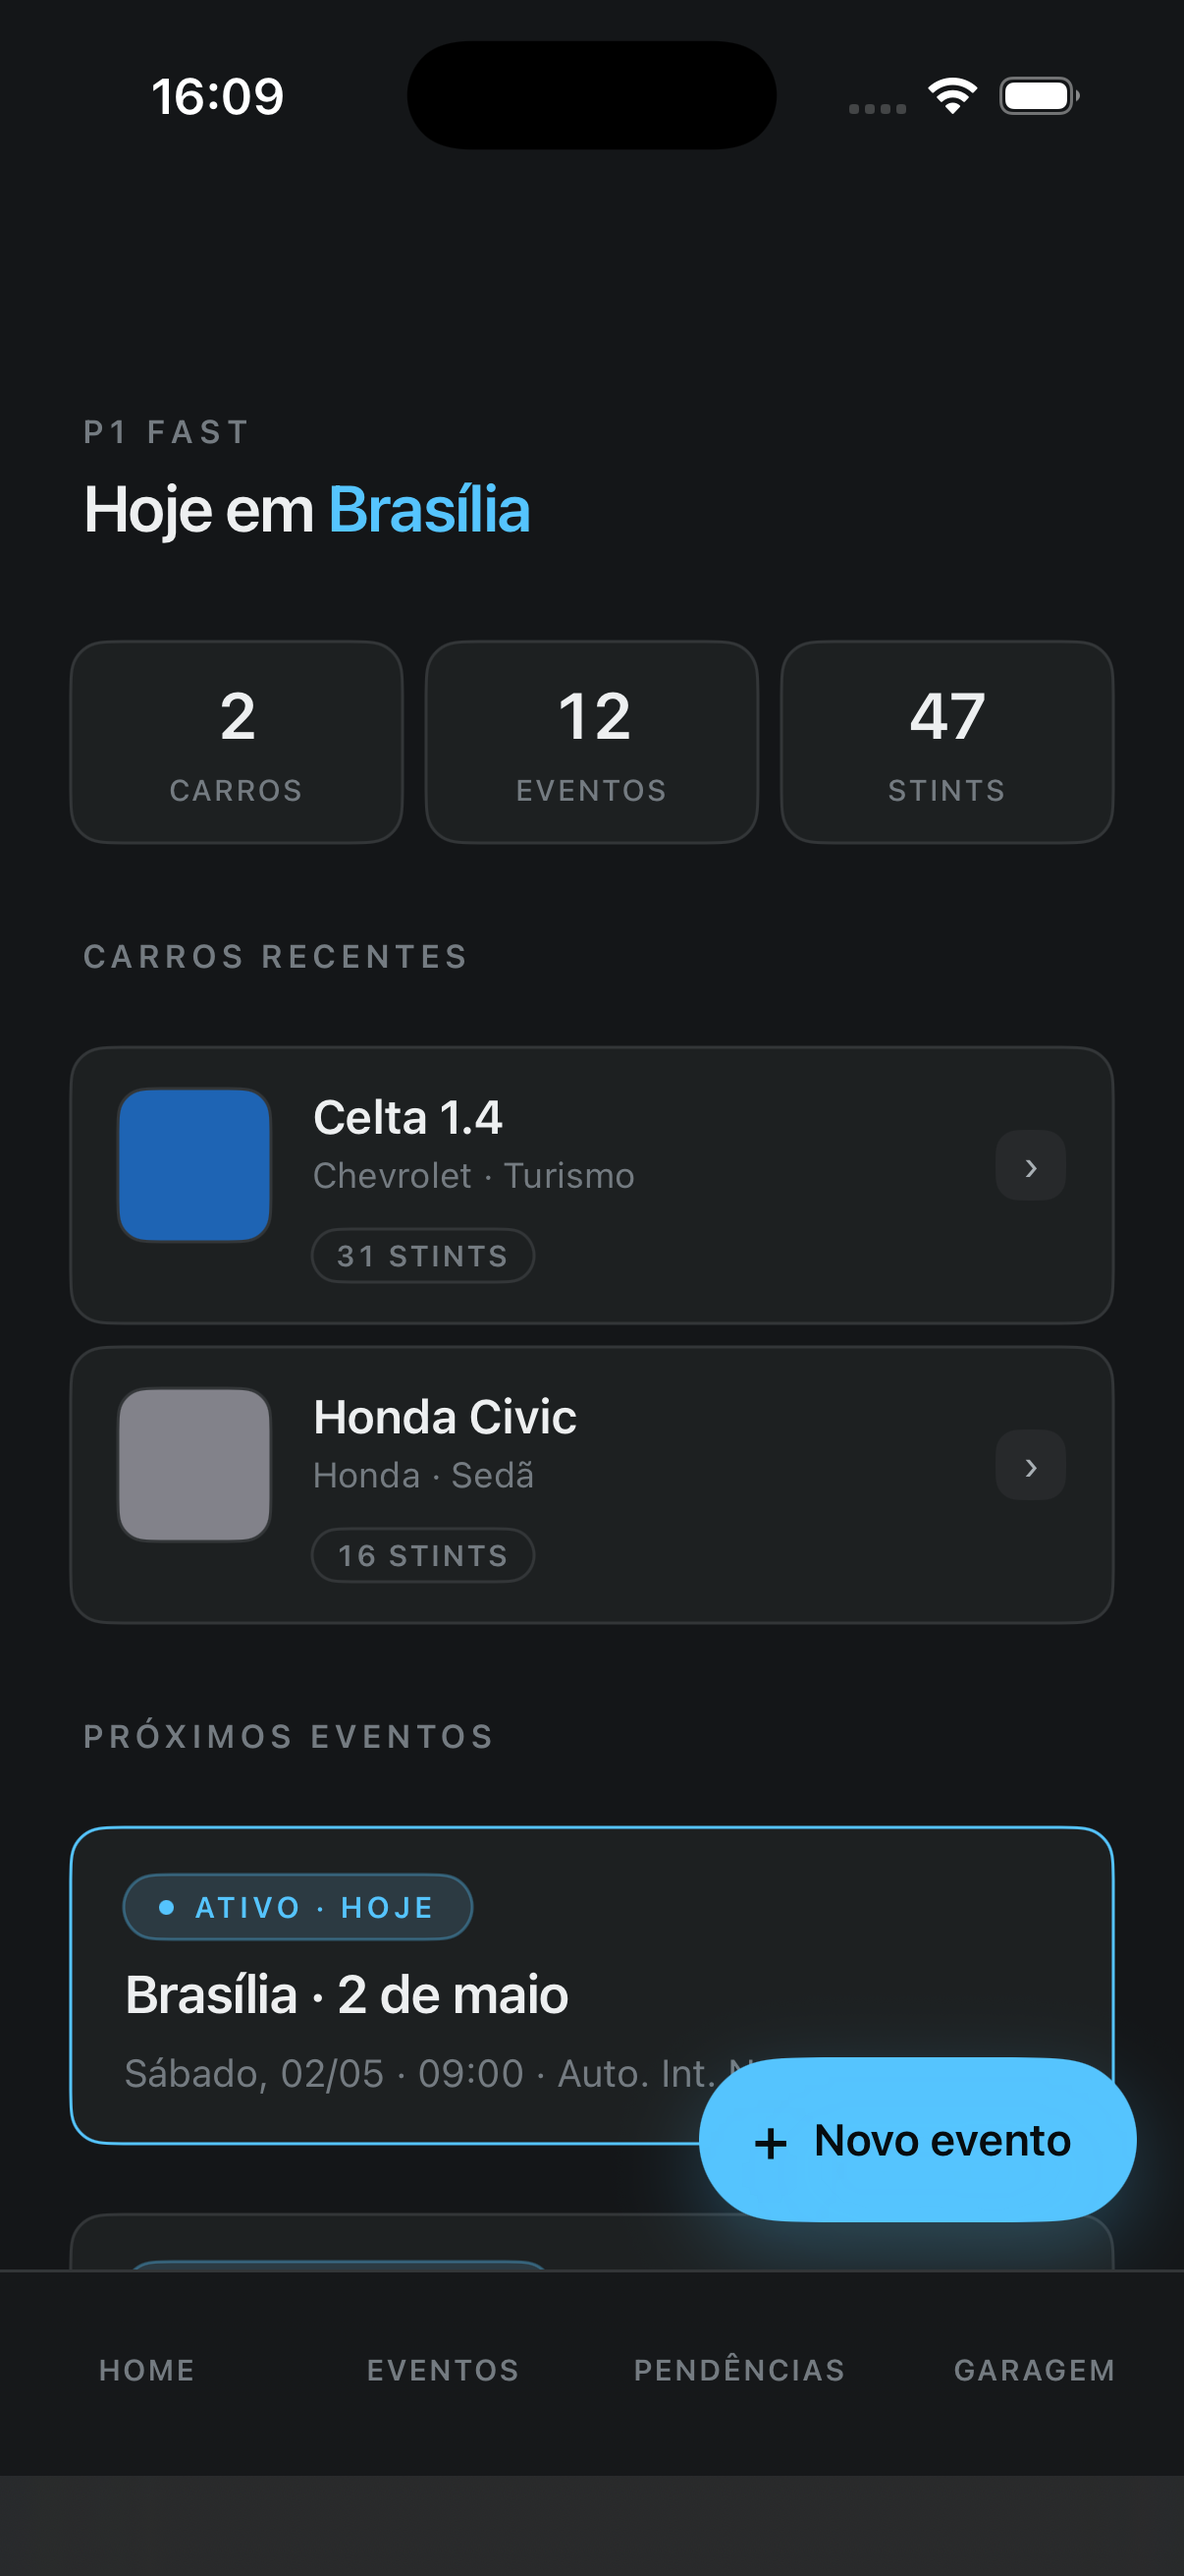
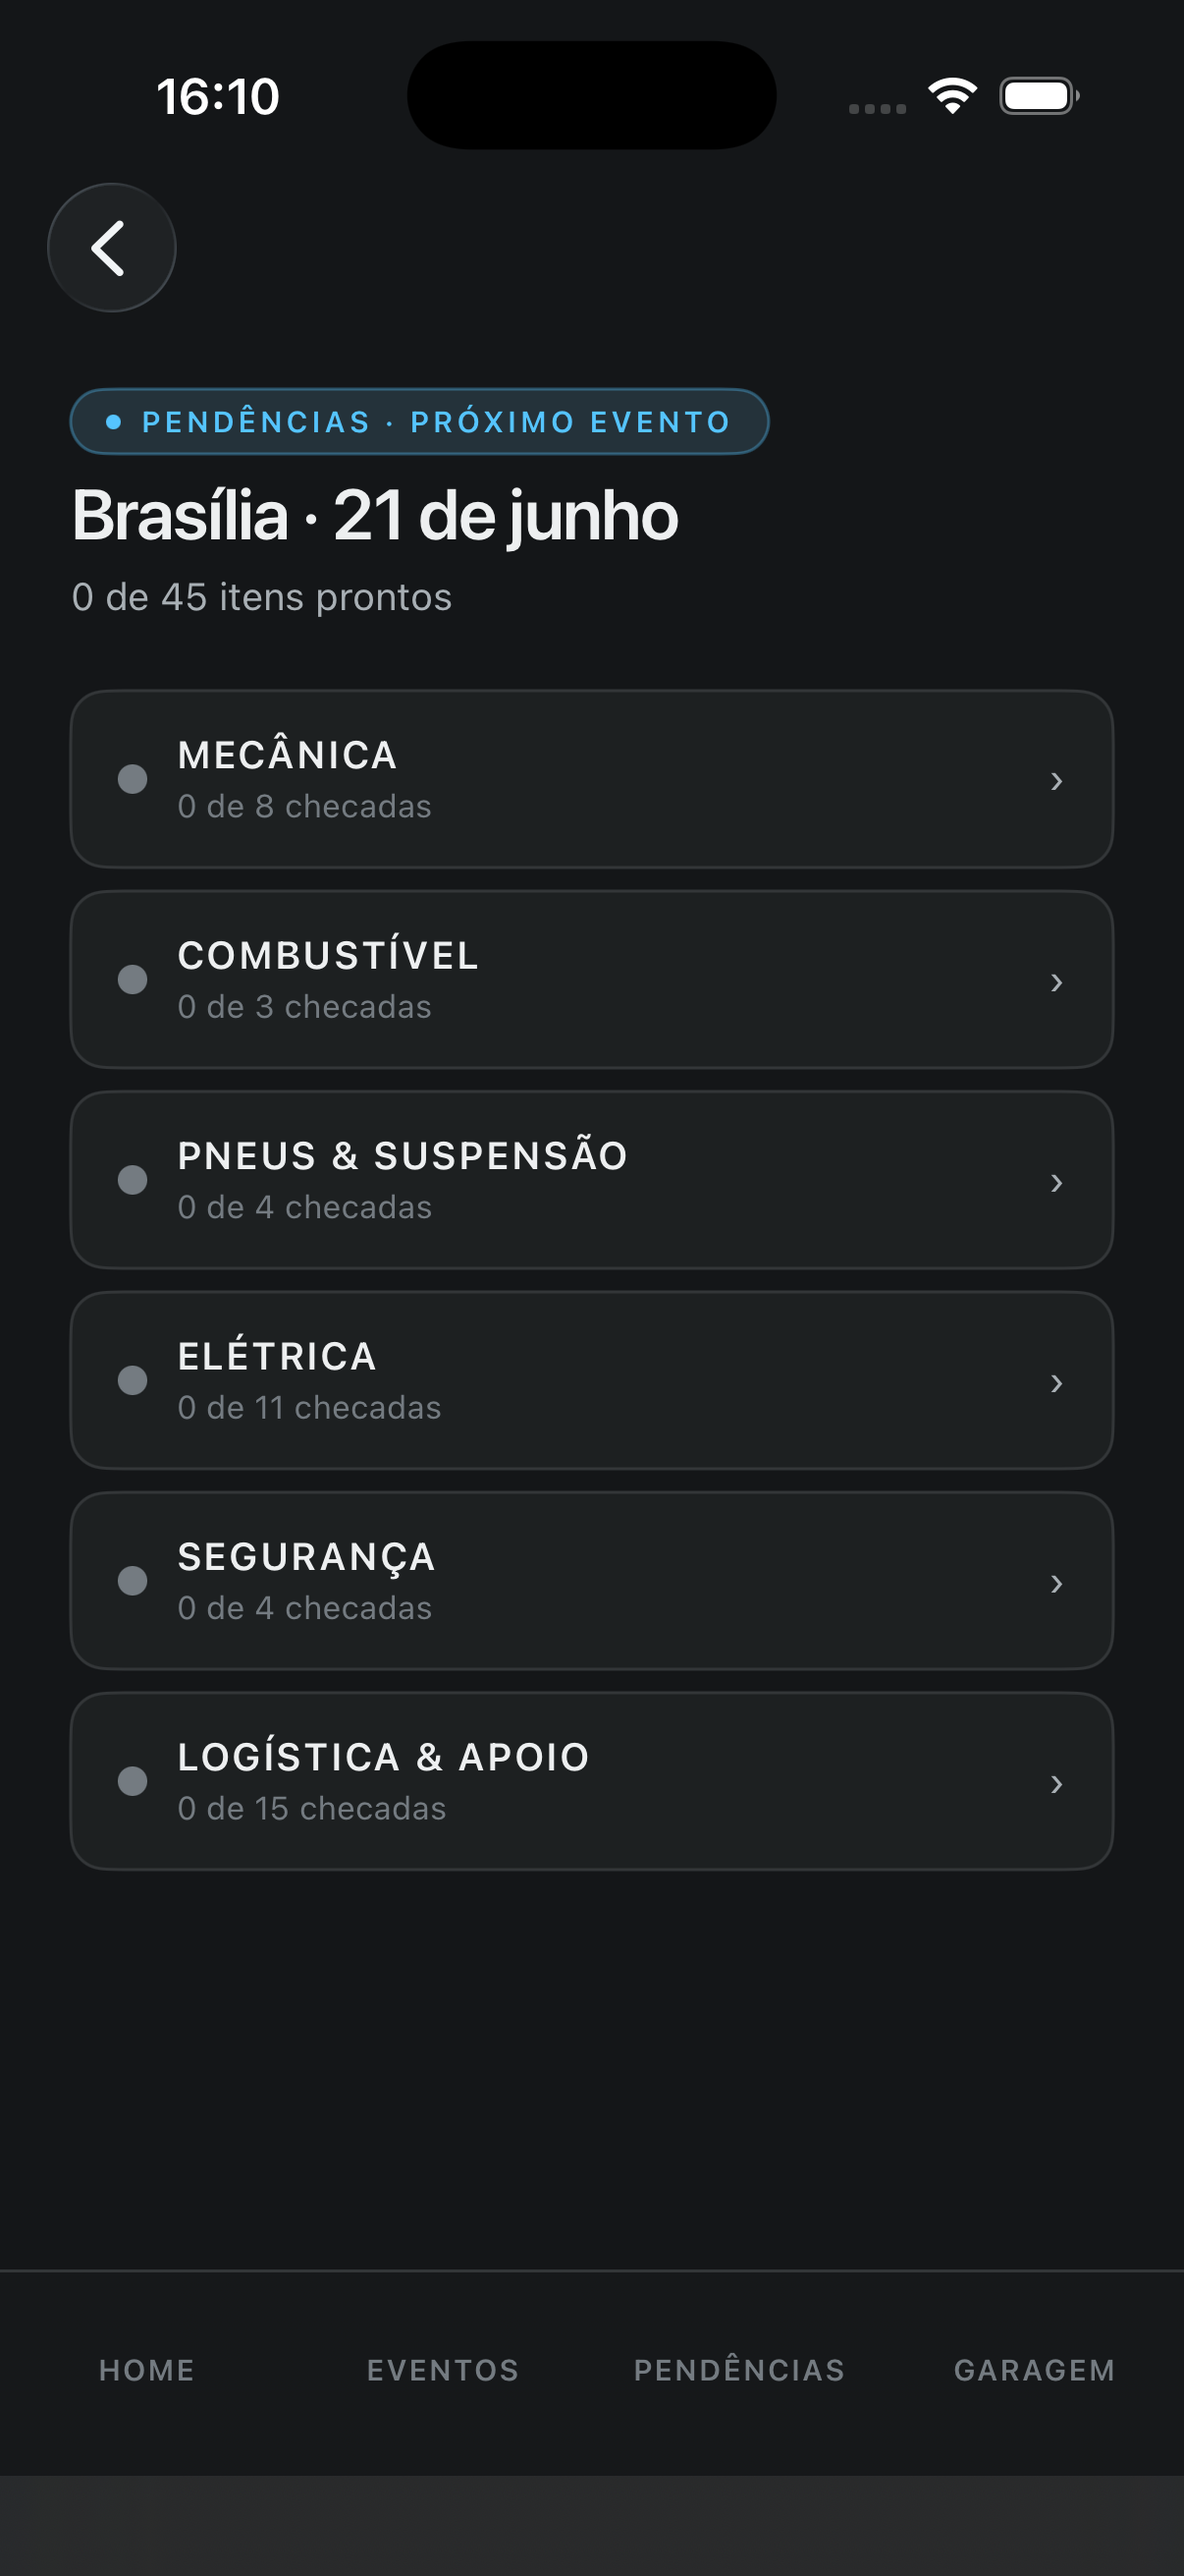
auto-save: 16:12:15

diff --git a/.claude-exec/ultima-tarefa.md b/.claude-exec/ultima-tarefa.md
@@ -57,4 +57,25 @@
 
 ## Decisão 1 — estrutura da Garagem (2026-06-14)
 Flávio escolheu **Sub-abas no topo** (Carros · Pilotos · Passageiros · Combustível · Lições).
-Mockup: `_design-reference/mockup-menu-reorg.html`. Aguardando aprovação visual pra portar pro app (DEV).
+Mockup: `_design-reference/mockup-menu-reorg.html`. Flávio: "pode seguir" → portado pro app (DEV).
+
+## TASK_DONE — 2026-06-14
+
+Arquivos alterados (app iOS, DEV — produção intocada):
+- `ios/p1fast-core/.../Migrations.swift` — migration v29: tabela LOCAL-ONLY `evento_pendencias_extra` (não sincroniza).
+- `ios/p1fast-core/.../Models.swift` — struct `EventoPendenciaExtra`.
+- `ios/p1fast-ios/.../PendenciaRepository.swift` — addExtra/removeExtra/toggleExtra/reloadExtras + grupos() mescla extras + PendenciaItemView vira catálogo OU extra.
+- `ios/p1fast-ios/.../PendenciasView.swift` — incluir (botão por grupo) / excluir (lixeira) / ticar; eyebrow + showFootBar configuráveis.
+- `ios/p1fast-ios/.../PessoasView.swift` — modo embutido (esconde header/sub-abas próprias) pra viver dentro da Garagem.
+- `ios/p1fast-ios/.../GaragemView.swift` — sub-abas Carros·Pilotos·Passageiros·Combustível·Lições.
+- `ios/p1fast-ios/.../HomeView.swift` — menu 3ª aba Cadastros→Pendências (abre no próximo evento via novo launcher).
+- `ios/p1fast-ios/.../HubMockLauncher.swift` — injeta os repos novos (corrige crash latente no mock) + NavRouter estável + args `--p1-menu`/`--p1-pend`.
+- `tests/node-smoke-schema-parity.mjs` — reconhece `evento_pendencias_extra` como local-only.
+
+Validação executada:
+- Empacotamento simulador: `xcodebuild ... build` → **BUILD SUCCEEDED** (3x).
+- Testes: schema-parity 15/0, migration 3/0, migration-port 8/0.
+- App real no simulador: `real-garagem-reorg.png` (Garagem com sub-abas + menu "Pendências") e `real-pendencias-proximo.png` (Pendências no próximo evento, 45 itens reais nos 6 grupos).
+
+Status: concluído em DEV. Produção NÃO alterada (sem "MIGRAR PARA PRODUÇÃO").
+Pendência real: nenhuma técnica. Observação: incluir/excluir é LOCAL-ONLY de propósito (não sobe pra nuvem) — se Flávio quiser sincronizar entre aparelhos, é decisão+autorização de produção separada.
